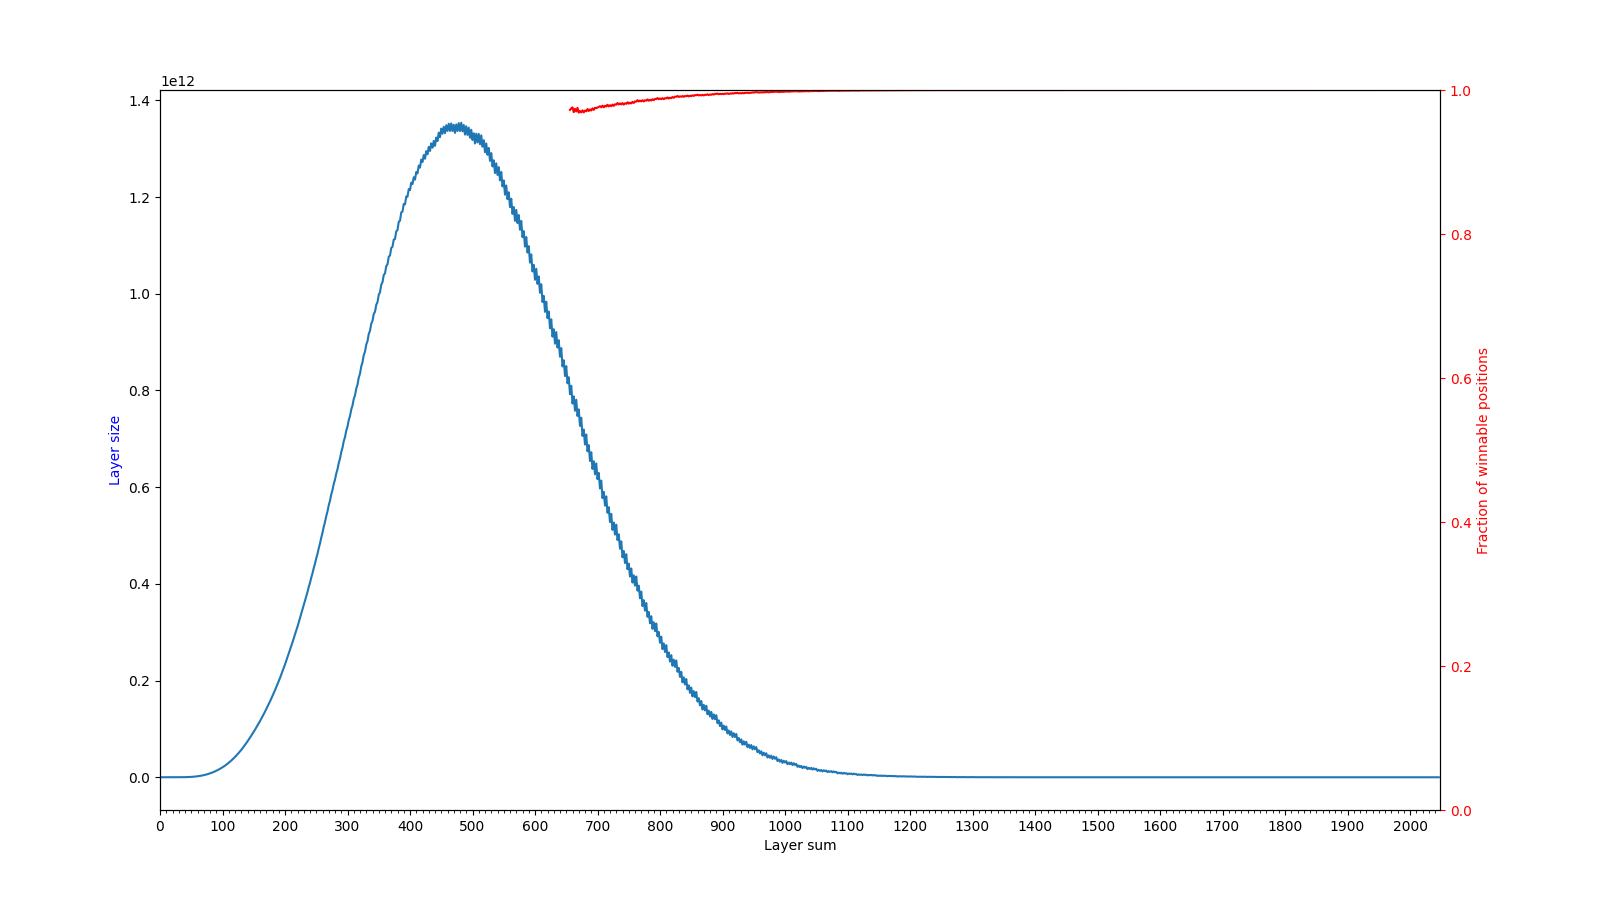
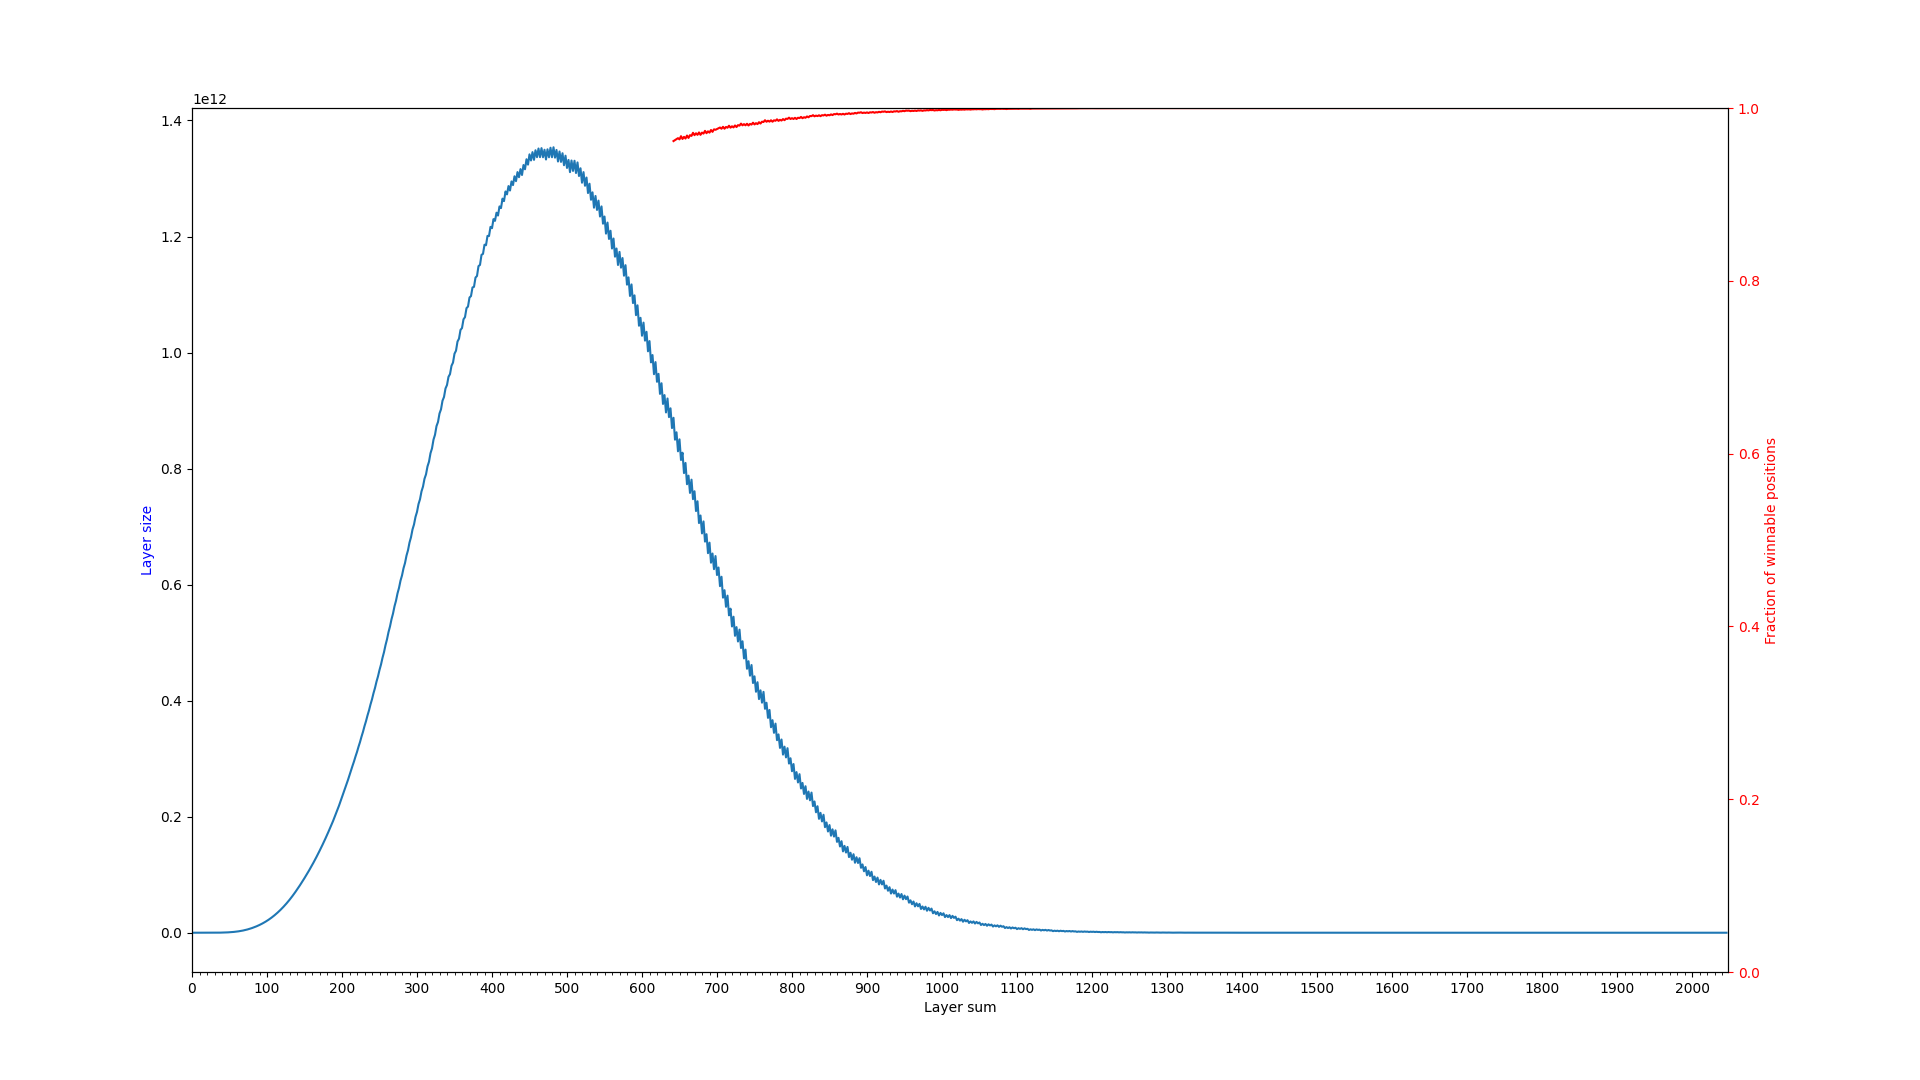
Fix bug with buffer: now the plot looks normal, goes down

diff --git a/reachability-256/plot.py b/reachability-256/plot.py
@@ -11,7 +11,7 @@ arr = list(map(int, open('layer_sizes', 'r').read().split()))
 #plt.fill_between(range(x_100gb, 1024), [0] * (1024 - x_100gb), arr[x_100gb:])
 #plt.show()
 
-fig = plt.figure(figsize=(16,9))
+fig = plt.figure(figsize=(19.2, 10.8))
 ax1 = fig.add_axes([0.1, 0.1, 0.8, 0.8])
 ax1.set_xlabel('Layer sum')
 ax1.set_xlim(0, len(arr) * 2)
@@ -34,6 +34,7 @@ for label_and_cnt in fractions_stuff:
     continue
   available_fraction_labels.append(label)
   available_fractions.append(cnt / arr[label // 2 - 1])
+  print(label_and_cnt, arr[label // 2 - 1],  available_fractions[-1])
   #available_fractions.append(.5)
 for i in range(len(available_fraction_labels)):
   for j in range(i):

diff --git a/reachability-256/field4by4-count-ones.cpp b/reachability-256/field4by4-count-ones.cpp
@@ -71,8 +71,8 @@ entry count_ones(std::string folder, std::string filename) {
       cnt_ones += ones_cnt[layer[i]];
   }
   int64_t remainder = layer_size % kBlockSize;
-  fin.read(reinterpret_cast<char*>(layer), remainder % kBlockSize);
-  for (int64_t i = 0; i < kBlockSize; ++i)
+  fin.read(reinterpret_cast<char*>(layer), remainder);
+  for (int64_t i = 0; i < remainder; ++i)
     cnt_ones += ones_cnt[layer[i]];
   delete[] layer;
   return {layer_sum, cnt_ones};
